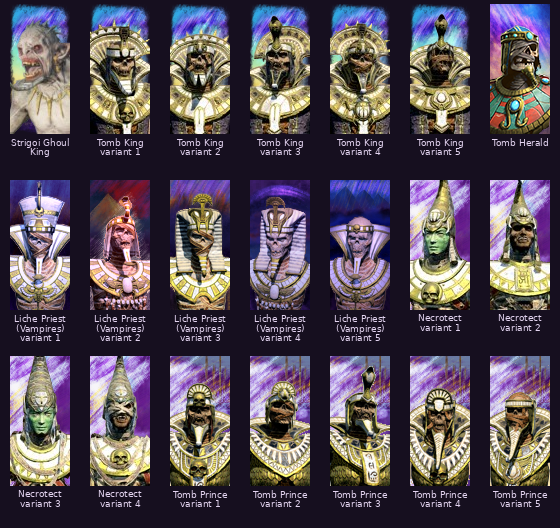
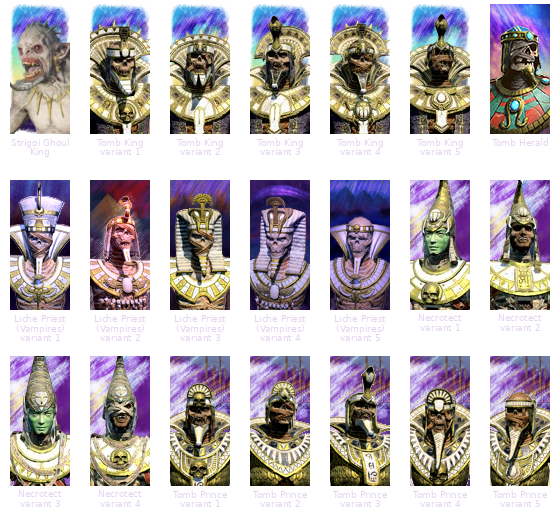
Simplify Workshop feature text, add Titan and Spirit Hosts, and make character gallery transparent

diff --git a/README.md b/README.md
@@ -6,19 +6,19 @@ This is the vanilla version of Arkhan the Black: Expanded for Total War: Warhamm
 
 This mod adds new technologies, skills and abilities to Lords and Heroes. Arkhan also has his own variants of the vanilla Tomb Kings units, with unique unit cards and a mirrored Realm of Souls ability with a different visual effect. New buildings allow recruitment of additional units not found among the other Tomb Kings factions.
 
-## Land of the Dead and latest additions
+## Land of the Dead
 
-- Arkhan can establish Necropolises and use the Ritual of Undeath to devastate eligible provinces, bringing them into his Land of the Dead.
-- Wizard Caliph's Palace, Arkhan's own catacomb, serves as his campaign anchor in place of Nagash's Black Pyramid.
-- Arkhan has his own Necromantic Energy resource, separate from Nagash's pool. His supported buildings and post-battle sources feed this resource, and his devastation ritual spends 500 Necromantic Energy from it.
-- Necropolises provide access to Necromantic Energy in their province and adjacent provinces. The ritual uses Arkhan-specific availability, resource costs and target requirements.
-- The top bar displays Arkhan's Necromantic Energy alongside the Necropolis count and soft cap. The province interface includes the energy display and Arkhan-specific tooltips.
-- The Necropolis limit follows Nagash's soft-cap system: a base allowance of one, one additional slot per three devastated provinces, and any Necropolis-limit bonuses. Building above the cap reduces Necromantic Energy income by 10% per excess Necropolis, up to 100%.
-- Necropolis data and UI counters refresh after loading a saved game, as well as after construction, demolition and faction-turn events.
-- Settlement map labels retain the standard presentation, with the custom Necromantic Energy map overlay hidden as it is for Nagash.
-- New campaigns replace Arkhan's starting Tomb Prince or vanilla Tomb Herald with the mod's custom Tomb Herald. The replacement requests level one and does not run in existing campaigns.
-- Updated Arkhan-themed unit cards and a purple technology-tab treatment give the interface a more consistent look. The final icons retain the original in-game size, with soft transparent edges where applicable.
-- Dedicated localisation describes Arkhan, his Necropolises and Wizard Caliph's Palace, while preserving the localisation calls and escaped tooltip line breaks.
+- Arkhan can now spread the Land of the Dead by building Necropolises and using the Ritual of Undeath to devastate provinces.
+- Necropolises give their province and neighbouring provinces access to Necromantic Energy. Arkhan earns it from buildings and battles, and has his own supply, separate from Nagash's.
+- The Ritual of Undeath costs 500 Necromantic Energy. Arkhan uses Wizard Caliph's Palace instead of the Black Pyramid to begin spreading the Land of the Dead.
+- You can keep track of your energy and Necropolis limit in the top bar, and see energy in the province panel. These displays also update when you load a save.
+- You start with a limit of one Necropolis and gain another for every three devastated provinces, plus any bonuses. You can build above the limit, but each extra Necropolis cuts energy income by 10%, up to 100%.
+
+## Other additions
+
+- Arkhan starts new campaigns with the custom Tomb Herald in place of the original hero. The replacement requests level one; existing campaigns keep their heroes.
+- Updated Arkhan-themed unit cards, a purple technology tab and tooltips written for Arkhan give the interface a consistent look. The icons retain their original in-game size.
+- The custom Necromantic Energy overlay is hidden on settlement map labels, matching Nagash.
 
 ## Units
 
@@ -26,9 +26,9 @@ This mod adds new technologies, skills and abilities to Lords and Heroes. Arkhan
 
 ## Expanded unit gallery
 
-Additional cards from the current mod include Spirit Hosts, Morghast Archai, Morghast Harbingers, Carrion, Casket of Souls, Nehekhara Horsemen, Skeleton Horse Archers, Wights of Stonewrath Tarn (Grave Guard), Zombies, Bone Giant, Khemric Titan, Sepulchral Stalkers, Skeleton Chariots, Skeleton Archer Chariots, Skeleton Horsemen, Tomb Guard regiment of renown. These include summoned units and a regiment of renown; recruitment and access follow their in-game requirements.
+Additional cards from the current mod include Spirit Hosts, Morghast Archai, Morghast Harbingers, Carrion, Casket of Souls, Nehekhara Horsemen, Skeleton Horse Archers, Wights of Stonewrath Tarn (Grave Guard), Zombies, Bone Giant, Khemric Titan, Sepulchral Stalkers, Skeleton Chariots, Skeleton Archer Chariots, Skeleton Horsemen. Some cards are for summoned units; recruitment and access follow their in-game requirements.
 
-<img src="https://raw.githubusercontent.com/Warhammer-Mods/arkhan_the_black_expanded/develop/ui/units/icons/wh2_dlc09_tmb_inf_spirit_host.png" alt="Spirit Hosts" title="Spirit Hosts" /><img src="https://raw.githubusercontent.com/Warhammer-Mods/arkhan_the_black_expanded/develop/ui/units/icons/wh2_dlc09_tmb_mon_morghast_archai.png" alt="Morghast Archai" title="Morghast Archai" /><img src="https://raw.githubusercontent.com/Warhammer-Mods/arkhan_the_black_expanded/develop/ui/units/icons/wh2_dlc09_tmb_mon_morghast_harbingers.png" alt="Morghast Harbingers" title="Morghast Harbingers" /><img src="https://raw.githubusercontent.com/Warhammer-Mods/arkhan_the_black_expanded/develop/ui/units/icons/xereus_tmb_carrion.png" alt="Carrion" title="Carrion" /><img src="https://raw.githubusercontent.com/Warhammer-Mods/arkhan_the_black_expanded/develop/ui/units/icons/xereus_tmb_casket_souls.png" alt="Casket of Souls" title="Casket of Souls" /><img src="https://raw.githubusercontent.com/Warhammer-Mods/arkhan_the_black_expanded/develop/ui/units/icons/xereus_tmb_cav_nehekhara_horsemen.png" alt="Nehekhara Horsemen" title="Nehekhara Horsemen" /><img src="https://raw.githubusercontent.com/Warhammer-Mods/arkhan_the_black_expanded/develop/ui/units/icons/xereus_tmb_cav_skeleton_horsemen_archers.png" alt="Skeleton Horse Archers" title="Skeleton Horse Archers" /><img src="https://raw.githubusercontent.com/Warhammer-Mods/arkhan_the_black_expanded/develop/ui/units/icons/xereus_tmb_inf_stonewrath_guard.png" alt="Wights of Stonewrath Tarn (Grave Guard)" title="Wights of Stonewrath Tarn (Grave Guard)" /><img src="https://raw.githubusercontent.com/Warhammer-Mods/arkhan_the_black_expanded/develop/ui/units/icons/xereus_tmb_inf_zmb.png" alt="Zombies" title="Zombies" /><img src="https://raw.githubusercontent.com/Warhammer-Mods/arkhan_the_black_expanded/develop/ui/units/icons/xereus_tmb_mon_bone_giant.png" alt="Bone Giant" title="Bone Giant" /><img src="https://raw.githubusercontent.com/Warhammer-Mods/arkhan_the_black_expanded/develop/ui/units/icons/xereus_tmb_mon_khemric_titan.png" alt="Khemric Titan" title="Khemric Titan" /><img src="https://raw.githubusercontent.com/Warhammer-Mods/arkhan_the_black_expanded/develop/ui/units/icons/xereus_tmb_mon_sepulchral_stalkers.png" alt="Sepulchral Stalkers" title="Sepulchral Stalkers" /><img src="https://raw.githubusercontent.com/Warhammer-Mods/arkhan_the_black_expanded/develop/ui/units/icons/xereus_tmb_skeleton_chariot.png" alt="Skeleton Chariots" title="Skeleton Chariots" /><img src="https://raw.githubusercontent.com/Warhammer-Mods/arkhan_the_black_expanded/develop/ui/units/icons/xereus_tmb_skeleton_chariot_archers.png" alt="Skeleton Archer Chariots" title="Skeleton Archer Chariots" /><img src="https://raw.githubusercontent.com/Warhammer-Mods/arkhan_the_black_expanded/develop/ui/units/icons/xereus_tmb_skeleton_horsemen.png" alt="Skeleton Horsemen" title="Skeleton Horsemen" /><img src="https://raw.githubusercontent.com/Warhammer-Mods/arkhan_the_black_expanded/develop/ui/units/icons/xereus_tmb_tomb_guard_ror.png" alt="Tomb Guard regiment of renown" title="Tomb Guard regiment of renown" />
+<img src="https://raw.githubusercontent.com/Warhammer-Mods/arkhan_the_black_expanded/develop/ui/units/icons/wh2_dlc09_tmb_inf_spirit_host.png" alt="Spirit Hosts" title="Spirit Hosts" /><img src="https://raw.githubusercontent.com/Warhammer-Mods/arkhan_the_black_expanded/develop/ui/units/icons/wh2_dlc09_tmb_mon_morghast_archai.png" alt="Morghast Archai" title="Morghast Archai" /><img src="https://raw.githubusercontent.com/Warhammer-Mods/arkhan_the_black_expanded/develop/ui/units/icons/wh2_dlc09_tmb_mon_morghast_harbingers.png" alt="Morghast Harbingers" title="Morghast Harbingers" /><img src="https://raw.githubusercontent.com/Warhammer-Mods/arkhan_the_black_expanded/develop/ui/units/icons/xereus_tmb_carrion.png" alt="Carrion" title="Carrion" /><img src="https://raw.githubusercontent.com/Warhammer-Mods/arkhan_the_black_expanded/develop/ui/units/icons/xereus_tmb_casket_souls.png" alt="Casket of Souls" title="Casket of Souls" /><img src="https://raw.githubusercontent.com/Warhammer-Mods/arkhan_the_black_expanded/develop/ui/units/icons/xereus_tmb_cav_nehekhara_horsemen.png" alt="Nehekhara Horsemen" title="Nehekhara Horsemen" /><img src="https://raw.githubusercontent.com/Warhammer-Mods/arkhan_the_black_expanded/develop/ui/units/icons/xereus_tmb_cav_skeleton_horsemen_archers.png" alt="Skeleton Horse Archers" title="Skeleton Horse Archers" /><img src="https://raw.githubusercontent.com/Warhammer-Mods/arkhan_the_black_expanded/develop/ui/units/icons/xereus_tmb_inf_stonewrath_guard.png" alt="Wights of Stonewrath Tarn (Grave Guard)" title="Wights of Stonewrath Tarn (Grave Guard)" /><img src="https://raw.githubusercontent.com/Warhammer-Mods/arkhan_the_black_expanded/develop/ui/units/icons/xereus_tmb_inf_zmb.png" alt="Zombies" title="Zombies" /><img src="https://raw.githubusercontent.com/Warhammer-Mods/arkhan_the_black_expanded/develop/ui/units/icons/xereus_tmb_mon_bone_giant.png" alt="Bone Giant" title="Bone Giant" /><img src="https://raw.githubusercontent.com/Warhammer-Mods/arkhan_the_black_expanded/develop/ui/units/icons/xereus_tmb_mon_khemric_titan.png" alt="Khemric Titan" title="Khemric Titan" /><img src="https://raw.githubusercontent.com/Warhammer-Mods/arkhan_the_black_expanded/develop/ui/units/icons/xereus_tmb_mon_sepulchral_stalkers.png" alt="Sepulchral Stalkers" title="Sepulchral Stalkers" /><img src="https://raw.githubusercontent.com/Warhammer-Mods/arkhan_the_black_expanded/develop/ui/units/icons/xereus_tmb_skeleton_chariot.png" alt="Skeleton Chariots" title="Skeleton Chariots" /><img src="https://raw.githubusercontent.com/Warhammer-Mods/arkhan_the_black_expanded/develop/ui/units/icons/xereus_tmb_skeleton_chariot_archers.png" alt="Skeleton Archer Chariots" title="Skeleton Archer Chariots" /><img src="https://raw.githubusercontent.com/Warhammer-Mods/arkhan_the_black_expanded/develop/ui/units/icons/xereus_tmb_skeleton_horsemen.png" alt="Skeleton Horsemen" title="Skeleton Horsemen" />
 
 ## Lords and Heroes
 
@@ -59,7 +59,7 @@ All images and assets used on this page are the property of Creative Assembly.
 The current building, unit, skill, animation, model and visual-effect sources from the supplied mod pack are merged with the Land of the Dead additions. Superseded 2022 tables and assets were removed to avoid duplicate definitions.
 
 - Arkhan's building income, battle rewards, campaign groups and ritual spending use his separate resource. Save migration separates the old campaign-group link without modifying Nagash's reserve.
-- Building context conditions recognise Arkhan's custom devastation effect bundle.
+- Building context conditions recognise Arkhan's custom devastation effect bundle. Necropolis data refreshes after construction, demolition, faction turns and save loading. Dedicated localisation retains the localisation calls and escaped tooltip line breaks.
 - Added DB fragment names do not end in numbers. Tables use RPFM TSV exports; the faction-colour compatibility table and four custom localisation files retain native binary data to preserve their values and escaped text.
 - GitHub workflows are maintained within this repository and use current Node 24 actions, read-only permissions, timeouts and cancellation of superseded runs.
 - CI validates database and localisation exports, checks campaign Lua scripts, and builds a downloadable pack containing only game asset folders. Lua warnings are reported but remain nonblocking; lint errors fail the check.
@@ -68,4 +68,4 @@ Import the source with RPFM configured for Total War: Warhammer III. Download au
 
 Local validation covers pack integrity, source-table round trips, resource/cost links, UI XML, Lua syntax, separate-pool migration and save-load refresh. The starting-hero replacement has been confirmed in game; the level-one adjustment and multiplayer behaviour still need an in-game check. Campaign changes do not depend on local UI/player state, but multiplayer desynchronisation safety is not yet confirmed.
 
-The complete, ready-to-paste Steam Workshop description is maintained in [docs/steam-workshop-description.txt](docs/steam-workshop-description.txt).
+The complete, ready-to-paste Steam Workshop description (including Khemric Titan and Spirit Hosts, with a transparent Lords and Heroes gallery) is maintained in [docs/steam-workshop-description.txt](docs/steam-workshop-description.txt).
